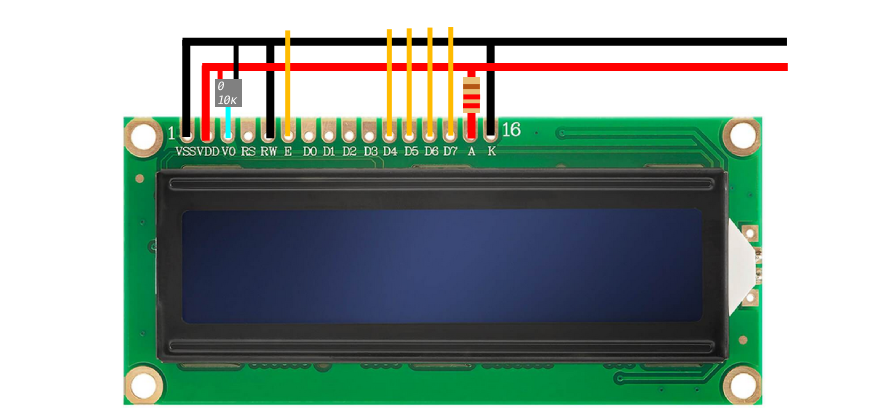
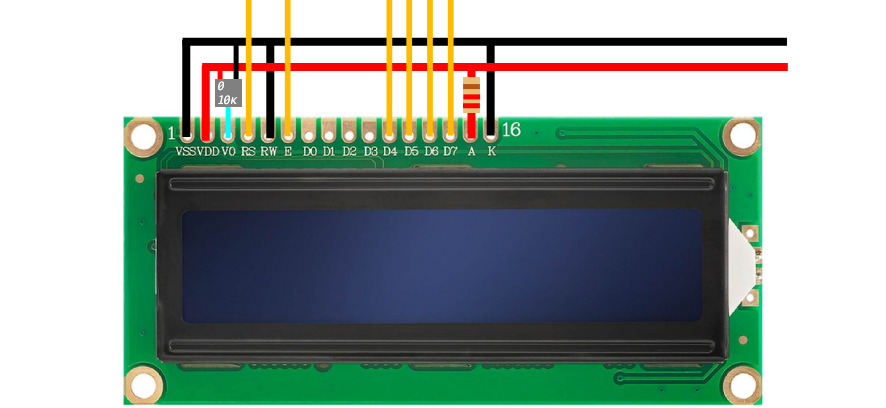
modifs lcd

Changed region(s): [[0.4266, 0.0, 0.5181, 0.3235], [0.2438, 0.0, 0.3352, 0.3529]]

diff --git a/LCD.md b/LCD.md
@@ -24,7 +24,8 @@ Nous allons utiliser l'écran en mode 4 bits.
 On le branche sur du 5V. 
 Cet écran n'utilise pas de procotole particulier. On lui envoie des instructions en hexadécimal en utilisant la table d'instructions, et on envoie une pulsation dans la broche E qui exécute l'instruction.
 
-![Table d'instructions](./16x2.png "")
+![Table d'instructions](./table.png "")
+
 Pour réinitialiser l'écran, on envoie trois fois l'instruction 0x03 (broches D4 et D5). Cette instruction n'est pas citée dans la table.
 
 ## Setup du GPIO
@@ -41,10 +42,11 @@ DATA PINS aux bonnes valeurs -> Broche E en valeur haute -> Broche E en valeur b
 * Idéalement on met des délais d'au moins deux millisecondes entre chaque instruction car l'écran a besoin de temps pour traiter les instructions. 
 * Quand on utilise le LCD en mode 4 bits, on envoie 2 instructions de 4 bits au lieu d'une instruction de 8 bits.
 * Pour correctement régler l'écran, on va faire cet ordre d'instructions:
-> ETEINDRE ECRAN (``0x8``)
-> RESET (``0x3`` -> ``0x3`` -> ``0x3``)
-> MODE 4 BITS (``0x2``)
-> CLEAR DISPLAY (``0x0`` -> ``0x1``)
-> RETURN HOME (``0x0`` -> ``0x2``)
-> ALLUMER ECRAN (``0x0`` -> ``0xD``, ``0xE`` ou ``0xF``)
+1. ETEINDRE ECRAN (``0x8``)
+2. RESET (``0x3`` -> ``0x3`` -> ``0x3``)
+3. MODE 4 BITS (``0x2``)
+4. CLEAR DISPLAY (``0x0`` -> ``0x1``)
+5. RETURN HOME (``0x0`` -> ``0x2``)
+6. ALLUMER ECRAN (``0x0`` -> ``0xD``, ``0xE`` ou ``0xF``)
+
 * Pour ensuite écrire des caractères, on passe la broche RS à 1 et on envoie des instructions en ASCII. Par exemple, "FLOE" sera : ``0x46``=(``0x4``->``0x6``), ``0x4C``=(``0x4``->``0xC``), ``0x4F``=(``0x4``->``0xF``), ``0x45``=(``0x4``->``0x5``)